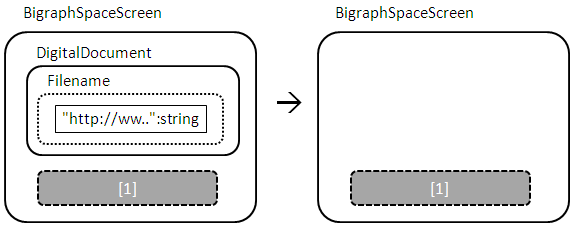
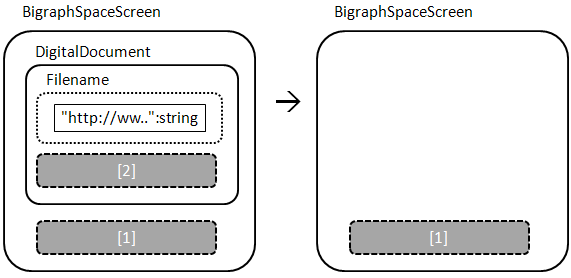
added Description controls to bluetooth and document; updated reactions and documentation accordingly; included examples of using BigEd to author.

Changed region(s): [[0.0, 0.0, 0.4466, 0.9825], [0.4764, 0.0, 1.0, 0.9825], [0.5954, 0.7368, 0.9527, 0.9211]]

diff --git a/examples/bluetoothex/docs/Overview.html b/examples/bluetoothex/docs/Overview.html
@@ -1,52 +1,71 @@
 <!DOCTYPE html PUBLIC "-//W3C//DTD HTML 4.01//EN" "http://www.w3.org/TR/html4/strict.dtd">
 <html>
 <head>
+
+  
   <meta content="text/html; charset=ISO-8859-1" http-equiv="content-type">
+
+  
   <title>Bluetoothex Example Bigraphspace Application</title>
 </head>
 
+
 <body>
+
 <h1>Bluetoothex Example Bigraphspace Application</h1>
-Chris Greenhalgh, 2009-08-27<br>
+
+Chris Greenhalgh, 2009-08-27; last update 2009-09-09<br>
+
 <h2>Introduction</h2>
+
 <p>Bluetoothex
 is an example application developed using bigraphspace, in fact it is
 arguably the first application (excluding BigEd, the Eclipse plug-in).</p>
+
 <p>This
 application is based on a simple ubicomp scenario that has been used in
 previous discussions of bigraphs: a mobile user with a hand-held device
 is presented with document(s) appropriate to their current location as
 they move around some site of interest (such as a museum).&nbsp;</p>
+
 <p>The
 technical basis assumed is the use of bluetooth "beacons" (i.e.
 discoverable bluetooth devices) placed physically within the site of
 interest, each of which is associated with a locally relevant document;
 the mobile device periodically scans for beacons and displays the
 corresponding document to the user.</p>
+
 <h2>Bigraphspace implementation</h2>
+
 <h3>Initialisation</h3>
+
 <p>The application would be run on the mobile device. It begins by loading the following bigraph (from <a href="../etc/initialcontent.btl">etc/initialcontent.btl</a>):</p>
-<pre>bigraph<br>	BigraphSpaceScreen <br>|	BigraphSpaceBluetooth <br>|	BigraphSpaceAuthored (<br>		DescriptionRoom (<br>			DescriptionBluetooth (<br>				BluetoothAddress ( "00:1c:9a:ed:54:29":string )<br>			)<br>		|	DigitalDocument (<br>				Filename ( "http://www.mrl.nott.ac.uk/~cmg":string )<br>			)<br>		)<br>	)			<br></pre>
-<p><img style="width: 602px; height: 375px;" alt="" src="images/initial_bigraph.PNG"></p>
+
+<pre>bigraph<br>	BigraphSpaceScreen <br>|	BigraphSpaceBluetooth <br>|	BigraphSpaceAuthored (<br>		DescriptionRoom (<br>			DescriptionBluetooth (<br>				BluetoothAddress ( "00:1c:9a:ed:54:29":string )<br>			|	Description ( "Chris's phone":string )<br>			)<br>		|	DigitalDocument (<br>				Filename ( "http://www.mrl.nott.ac.uk/~cmg":string )<br>			|	Description ( "Chris's home page":string )<br>			)<br>		)<br>	)			<br></pre>
+
+<p><img style="width: 606px; height: 437px;" alt="" src="images/initial_bigraph.PNG"></p>
 <p>The three top level nodes are:</p>
+
 <ul>
+
   <li>BigraphSpaceScreen - which represents the screen buffer;</li>
+
   <li>BigraphSpaceBluetooth - which represents the internally published reports of observed bluetooth beacons; and</li>
+
   <li>BigraphSpaceAuthored - which represents the authored configuration downloaded onto the device.</li>
+
 </ul>
+
 <p>In
 this example, there is one configured region of interest, the single
 DescriptionRoom node in the BigraphSpaceAuthored node. It contains -
 and therefore associates - the bluetooth beacon with bluetooth address
 "00:1c:9a:ed:54:29" and the document with URL
-"http://www.mrl.nott.ac.uk/~cmg".</p>
-<p>This initial state when viewed in BigEd, the bigraph editor plugin
-for Eclipse, looks like this (after conversion to XML format):</p>
-<img style="width: 854px; height: 464px;" alt="" src="images/initial_bigraph_biged.PNG">
-<p>(clearly the index values are not yet visible - on the to-do list).
-The state can be edited in biged and then converted back to BTL for use
-in this application.</p>
+"http://www.mrl.nott.ac.uk/~cmg". The Description controls are
+descriptive fields to help during authoring and are systematically
+ignored by the application behaviour reactions.</p>
 <h3>Input</h3>
+
 <p>The application
 has a timer thread which periodically (every 15 seconds) does a
 bluetooth hardware scan using its local bluetooth radio (a low-level
@@ -54,99 +73,180 @@ I/O operation). Each time this thread runs it clears any previous
 content of the BigraphSpaceBluetooth node and inserts into the
 now-empty node a DescriptionBluetooth node (like the one in
 BigraphSpaceAuthored) for every observed bluetooth beacon.</p>
+
 <p>This
 activity cannot be precisely represented using a standard bigraph
 reaction rule in the case of multiple beacons in range (because it
 simultaneously creates DescriptionBluetooth for every observed beacon.
 If only one beacon is in range then it corresponds to a reaction such
 as:</p>
+
 <pre>bigraph BigraphSpaceBluetooth ( [1] ) =&gt;<br>bigraph BigraphSpaceBluetooth (	DescriptionBluetooth ( BluetoothAddress ( "00:1c:9a:ed:54:29":string ) ) )<br></pre>
+
 <img style="width: 580px; height: 184px;" alt="" src="images/bluetooth_beacon_reaction.PNG">
 <h3>Response</h3>
+
 <p>The "behaviour" of the application is represented by one reaction rule with a bigraph expression as its redex:</p>
-<pre>bigraph<br>// a detected bluetooth radio...<br>	BigraphSpaceBluetooth( [1] <br>	| 	DescriptionBluetooth ( BluetoothAddress ( $address:string ) )<br>	)<br>// leave authoring unchanged<br>||	BigraphSpaceAuthored( [2]<br>	|	DescriptionRoom( <br>			DescriptionBluetooth ( BluetoothAddress ( $address:string ) )<br>		|	DigitalDocument ( [3] )<br>		)<br>	)<br>// a screen...<br>||	BigraphSpaceScreen( [4] )<br>// variables...<br>where	$address:string<br><img style="width: 602px; height: 410px;" alt="" src="images/behaviour_redex.PNG"><br></pre>
+
+<pre>bigraph<br>// a detected bluetooth radio...<br>	BigraphSpaceBluetooth( [1] <br>	| 	DescriptionBluetooth ( BluetoothAddress ( $address:string ) )<br>	)<br>// leave authoring unchanged<br>||	BigraphSpaceAuthored( [2]<br>	|	DescriptionRoom( <br>			DescriptionBluetooth ( BluetoothAddress ( $address:string ) | [5] )<br>		|	DigitalDocument ( [3] )<br>		)<br>	)<br>// a screen...<br>||	BigraphSpaceScreen( [4] )<br>// variables...<br>where	$address:string<br><img style="width: 599px; height: 430px;" alt="" src="images/behaviour_redex.PNG"><br></pre>
+
 <p>Note
 the use of the index variable $address which allows the redex to match
 any bluetooth address, provided that the same address is present both
 in the bluetooth beacon report (in BigraphSpaceBluetooth) and&nbsp;in
 the authored configuration.</p>
+
 <p>The site [1] allows the rule to fire
 even if other beacons are also in sight; the site [2] allows the rule
 to fire if other rooms are also configured; the site [3] abstracts over
 the internal structure of the document to be displayed; the site [4]
 "captures" the current content of the screen.</p>
+
 <p>So this rule will fire if the bluetooth beacon
 code places a DescriptionBluetooth into the BigraphSpaceBluetooth with
 the same bluetooth address as one in the authored configuration,
 provided that in the authored configuration it is also associated with
 a document (by common nesting within a DescriptionRoom).</p>
+
 <p>The reactum - also parameterised in $address, as bound by the redex - is as follows:</p>
-<pre>bigraph<br>// remove detected bluetooth radio...<br>	BigraphSpaceBluetooth( [1] )<br>// leave authoring unchanged<br>||	BigraphSpaceAuthored( [2]<br>	|	DescriptionRoom( <br>			DescriptionBluetooth ( BluetoothAddress ( $address:string ) )<br>		|	DigitalDocument ( [3] )<br>		)<br>	)<br>// update screen<br>||	BigraphSpaceScreen( <br>		DigitalDocument ( [3] ) <br>	)<br>where $address:string<br></pre>
-<img style="width: 604px; height: 407px;" alt="" src="images/behaviour_reactum.PNG">
+
+<pre>bigraph<br>// remove detected bluetooth radio...<br>	BigraphSpaceBluetooth( [1] )<br>// leave authoring unchanged<br>||	BigraphSpaceAuthored( [2]<br>	|	DescriptionRoom( <br>			DescriptionBluetooth ( BluetoothAddress ( $address:string ) | [5] )<br>		|	DigitalDocument ( [3] )<br>		)<br>	)<br>// update screen<br>||	BigraphSpaceScreen( <br>		DigitalDocument ( [3] ) <br>	)<br>where $address:string<br></pre>
+
+<img style="width: 602px; height: 434px;" alt="" src="images/behaviour_reactum.PNG">
 <p>Note
-that the internal structure of the document (its filename, in this
+that the internal structure of the document (its filename and description, in this
 case) is copied from the authored description into the
 BigraphSpaceScreen, replacing any previous things on the screen.</p>
+
 <p>Note
 also that the bluetooth beacon report is removed from the
 BigraphSpaceBluetooth, suppressing further firing of this rule until or
 unless the bluetooth input process runs again.</p>
+
 <h3>Output</h3>
+
 <p>Finally,
 the application has a further reaction rule and associated event
 listener to handle displaying documents on the actual device.&nbsp;</p>
+
 <p>The&nbsp;reaction rule (expression) is as follows:</p>
-<pre>bigraph BigraphSpaceScreen( [1] | DigitalDocument ( Filename ( $filename:string ) ) )<br>where $filename:string<br></pre>
+
+<pre>bigraph BigraphSpaceScreen( [1] | DigitalDocument ( Filename ( $filename:string ) | [2] ) )<br>where $filename:string<br></pre>
+
 <p>=&gt;</p>
+
 <pre>bigraph BigraphSpaceScreen( [1] )<br>where $filename:string<br></pre>
-<img style="width: 575px; height: 228px;" alt="" src="images/display_reaction.PNG">
-<p>I.e. one DigitalDocument (which in this case must have a Filename "field") is removed from the BigraphScreenSpace.&nbsp;</p>
+
+<img style="width: 571px; height: 278px;" alt="" src="images/display_reaction.PNG">
+<p>I.e. one DigitalDocument (which in this case must have a Filename
+"field"; any other contents are ignored) is removed from the
+BigraphScreenSpace.&nbsp;</p>
+
 <p>The
 program event listener which fires when this reaction occurs attempts
 to load the specified file as a URL on the device screen:</p>
+
 <p><img style="width: 425px; height: 332px;" alt="" src="images/bluetoothex_screenshot.PNG"></p>
+
 <h3> Additional Behaviour Notes</h3>
+
 <p>This
 is the first time I have really used the indexed controls (for
 strings), to avoid the use of constant links, and I think it works OK
 (conceptually it is preferable IMO).</p>
+
 <p>Because the application
 scans for bluetooth beacons repeatedly, and replaces the
 DescriptionBluetooth nodes each time, the application will re-display
 the document each time the beacon is scanned in range.&nbsp;</p>
+
 <p>It
 is hard - but interesting - to try to work out how other temporal
 behaviours could be implemented and modelled, e.g. show only the first
 time, show on first observation after a gap.</p>
+
 <p>If several beacons
 are observed at the same time which have associated documents then
 those documents will be displayed rapidly in an arbitrary order each
 time the bluetooth scanning activity runs.&nbsp;</p>
+
 <p>Again, it is
 hard - but interesting - to try and work out how other strategies could
 be implemented and modelled, both at the level of pure bigraphs, and
 with the addition of higher-level constructs or constraints.</p>
+
+<h2>Authoring</h2>
+<p>BigEd is a&nbsp;bigraph editor plugin
+for Eclipse, which works (at present, anyway) with the bigraph XML encoding.</p>
+<p>The configuration of the application can be edited (within limits)
+using the current BigEd editor. Since BigEd does not currently
+supporting creating new controls it must be initialised with a bigraph
+containing the required controls, such as&nbsp;<a href="../etc/authorinput.xml">etc/authorinput.xml</a>.
+This bigraph includes the necessary top-level controls, plus
+descriptions of the available documents and bluetooth beacons, all be
+it not in the authored configuration or associated with particular
+"rooms". This initial state when viewed in BidEd looks like this:</p>
+<p><img style="width: 1270px; height: 369px;" alt="" src="images/pre_initial_bigraph_biged.PNG"></p>
+<p>Note that the BigraphSpaceAuthored control has only an empty
+DescriptionRoom in it; if the application is run with this
+configuration it will do nothing as the main behaviour reaction will
+never fire.</p>
+<p>BigEd can then be used to move or copy the DescriptionBluetooth and
+DigitalDocument controls into DescriptionRoom control(s) in the
+authored part, to create the desired associations of beacons and
+documents. The importance of the authoring-oriented Description
+controls is particularly apparent in for the Bluetooth addresses, which
+have no intrinsic meaning to an author.</p>
+<p>This authored initial state as used in the above
+walk-through,&nbsp;when viewed in BigEd, looks like this (after
+conversion to XML format):</p>
+
+<img style="width: 1270px; height: 429px;" alt="" src="images/initial_bigraph_biged.PNG">
+<p>The state can be edited in biged and then converted back to BTL for use
+in this application (see the <a href="../../../bigraphspace/docs/Tutorial.html#Tools">Bigraphspace tutorial section on tools</a> for information on converting between bigraph file formats).</p>
+<p>Note that the application also dumps the bigraph content (in XML) as it runs, so that the state evolution can be observed, e.g. using BigEd.</p>
 <h2>Building and running</h2>
+
 <p>The
 build uses ANT. It currently assumes that bigraphspace.jar has been
 built already (in ../../bigraphspace/dist, using "ant jar" in the
 bigraphspace directory).</p>
+
 <p>The test is run with "ant test".&nbsp;</p>
+
 <p>The Bluetooth scanning is a rather old Win32-specific
 implementation; source and build file included (for Visual C++), but
 with no warranty.</p>
+
 <h3>Initial Reflections</h3>
+
 <p>The programmatic API for building bigraphs
 is rather verbose, long-winded and not fully implemented (watch out for
 "unimplemented" exceptions when you run your application).&nbsp;</p>
+
 <h2>Change Log</h2>
+
+<p>2009-09-09</p>
+<ul>
+  <li>added Description control to support authoring and updated
+information on BigEd to reflect use for authoring now that index values
+are displayed.</li>
+</ul>
 <p>2009-08-28</p>
+
 <ul>
+
   <li>added image and updated reflections post bigraphspace initial IO framework.</li>
+
 </ul>
+
 <p>2009-08-27</p>
+
 <ul>
+
   <li>first version&nbsp; </li>
+
 </ul>
+
 </body>
 </html>

diff --git a/examples/bluetoothex/src/bluetoothex/Main.java b/examples/bluetoothex/src/bluetoothex/Main.java
@@ -19,6 +19,7 @@ import bigraphspace.api.RuleFiredEvent;
 import bigraphspace.api.RuleFiredListener;
 import bigraphspace.api.RuleCondition;
 import bigraphspace.io.BigraphReader;
+import bigraphspace.io.BigraphWriter;
 import bigraphspace.io.IOConstants;
 import bigraphspace.model.xml.DomReactiveBigraph;
 import bigraphspace.model.xml.DomMatch;
@@ -55,6 +56,7 @@ public class Main
 	/** logger 
 	 */
 	static Logger logger = Logger.getLogger(Main.class);
+	
 	/** app main
 	 */
 	public static void main(String args[])
@@ -94,7 +96,7 @@ public class Main
 					"||BigraphSpaceAuthored( "+
 					"    [2]"+
 					"  | DescriptionRoom( "+
-					"      DescriptionBluetooth ( BluetoothAddress ( $address:string ) )"+
+					"      DescriptionBluetooth ( BluetoothAddress ( $address:string ) | [5]  )"+
 					"    | DigitalDocument ( [3] )"+
 					"    )"+
 					"  )"+
@@ -117,7 +119,7 @@ public class Main
 					"||BigraphSpaceAuthored( "+
 					"    [2]"+
 					"  | DescriptionRoom( "+
-					"      DescriptionBluetooth ( BluetoothAddress ( $address:string ) )"+
+					"      DescriptionBluetooth ( BluetoothAddress ( $address:string ) | [5]  )"+
 					"    | DigitalDocument ( [3] )"+
 					"    )"+
 					"  )"+
@@ -140,6 +142,7 @@ public class Main
 					}
 					// TODO Auto-generated method stub
 					session.getAll().dump(System.out);
+					dumpBigraph(session.getAll(),"behaviour-rule");
 				}
 				
 			});
@@ -154,7 +157,7 @@ public class Main
 					// a screen with a document with a filename...
 					"  BigraphSpaceScreen( "+
 					"    [1] "+
-					"  | DigitalDocument ( Filename ( $filename:string ) )"+
+					"  | DigitalDocument ( Filename ( $filename:string ) | [2] )"+
 					"  )"+
 					"where $filename:string");
 			//displayRedex.dump(System.out);
@@ -205,6 +208,12 @@ public class Main
 							page.setText(e.toString());
 						}
 					}
+					dumpBigraph(session.getAll(),"output-rule");
+					new Thread() {
+						public void run() {
+							dumpBigraph(bigraph,"output-async");
+						}
+					}.start();
 				}
 				
 			});
@@ -216,6 +225,7 @@ public class Main
 			session.begin();
 			session.setAll(initialValue);
 			session.end();
+			dumpBigraph(bigraph,"initial");
 			
 			System.out.println("Running...");
 			BluetoothDiscover bt = new BluetoothDiscover()
@@ -288,8 +298,11 @@ public class Main
 						*/
 						// replace
 						logger.info("replace...");
+						dumpBigraph(session.getAll(),"bluetooth-match");
 						session.update(matches.get(0), reactum);
+						dumpBigraph(session.getAll(),"bluetooth-update");
 						session.end();
+						dumpBigraph(bigraph,"bluetooth-after");
 						session.begin();
 						session.getAll().dump(System.out);
 						session.end();
@@ -306,6 +319,36 @@ public class Main
 		catch (Exception e)
 		{
 			logger.error("Main", e);
+		}
+	}
+	/** xml snapshot index 
+	 */
+	static int dumpIndex = 1;
+	/** write xml snapshot */
+	static void dumpBigraph(ReactiveBigraph bigraph, String identifier) {
+		BigraphSession session = bigraph.getSession();
+		session.begin(BigraphSession.Mode.readonly);
+		try {
+			Bigraph bg = session.getAll();
+			dumpBigraph(bg, identifier);
+			session.end();
+		}
+		catch (Exception e) {
+			logger.error("Dumping", e);
+			session.abort();
+		}
+	}
+	/** write xml snapshot */
+	static void dumpBigraph(Bigraph bg, String identifier) {
+		String filename = "bigraphdump-"+dumpIndex+"-"+identifier+".xml";
+		logger.info("Dump "+dumpIndex+": "+identifier+" as "+filename);
+		dumpIndex++;
+		try {
+			BigraphWriter writer = bg.getWriter("XML");
+			writer.write(bg, new File(filename));
+		}
+		catch (Exception e) {
+			logger.error("Dumping", e);
 		}
 	}
 	/*
